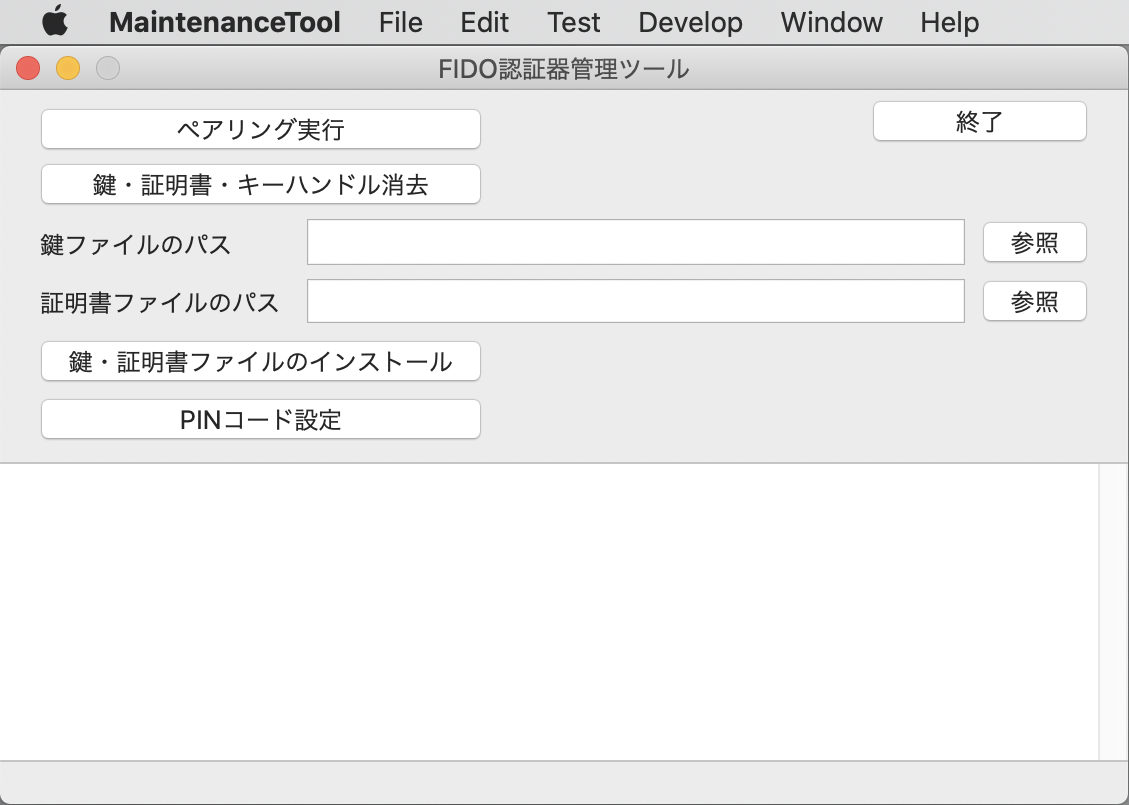
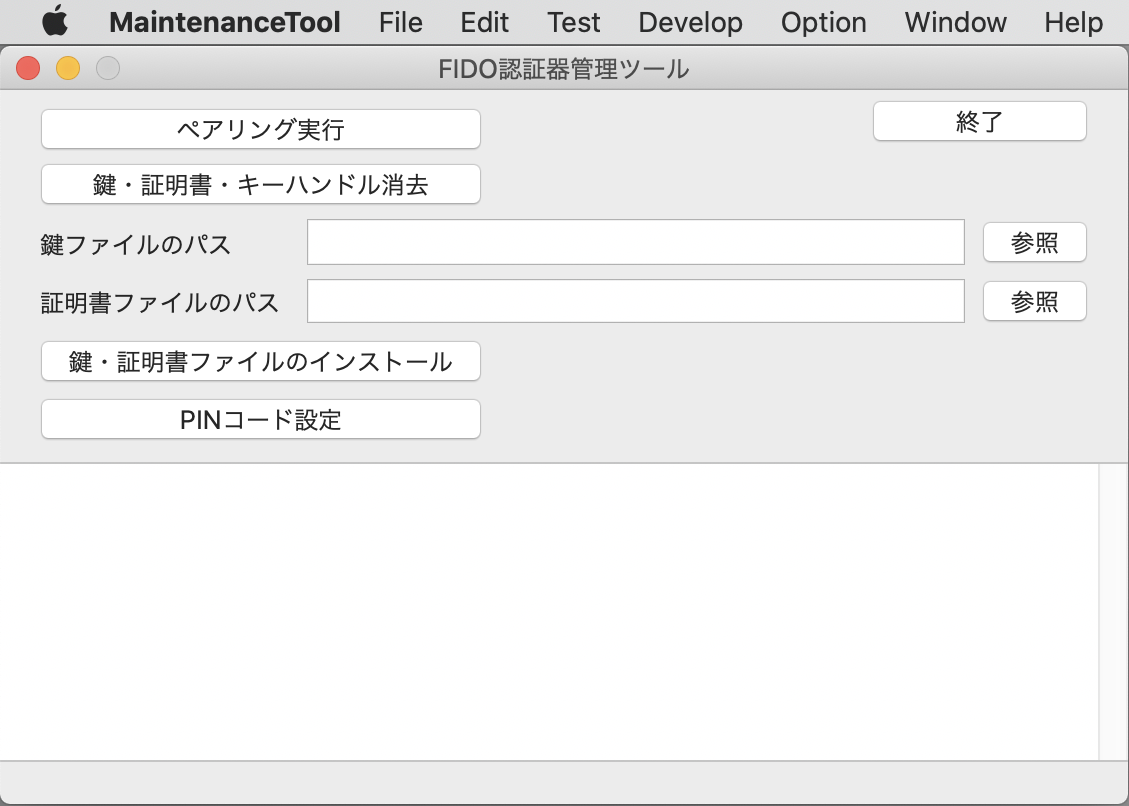
改善のための修正
・ホーム画面のファイルパス選択欄を編集不可とし、フルパス名をToolTip表示させるよう修正
（PIV設定画面のファイルパス選択欄の動作と整合させるための措置）
・管理ツールREADMEの画面コピー（ホーム画面）を差し替え

diff --git a/MaintenanceTool/macOSApp/MaintenanceTool/AppDelegate.m b/MaintenanceTool/macOSApp/MaintenanceTool/AppDelegate.m
@@ -423,11 +423,11 @@
         if (modalResponse == NSFileHandlingPanelOKButton) {
             if ([self buttonPath1] == sender) {
                 [[self fieldPath1] setStringValue:filePath];
-                [[self fieldPath1] becomeFirstResponder];
+                [[self fieldPath1] setToolTip:filePath];
             }
             if ([self buttonPath2] == sender) {
                 [[self fieldPath2] setStringValue:filePath];
-                [[self fieldPath2] becomeFirstResponder];
+                [[self fieldPath2] setToolTip:filePath];
             }
         }
         // メニューを活性化
